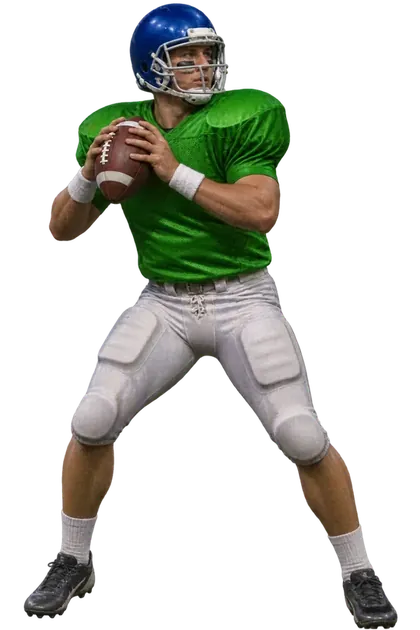
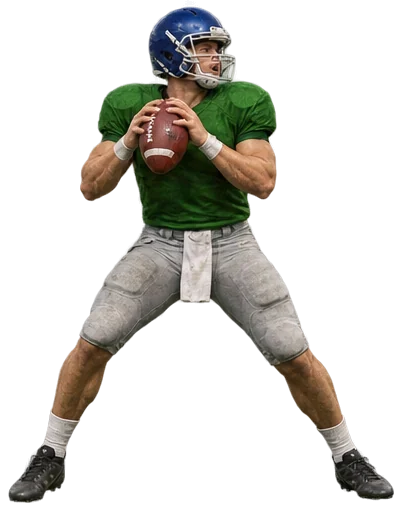
Replace retro athlete mattes with six original role-aware portraits and harden rendering

Changed region(s): [[0.0, 0.0, 0.9851, 1.0]]

diff --git a/src/app.js b/src/app.js
@@ -17,7 +17,7 @@ import {QUALIFICATION_RULES} from './cfpSelection.js';
 import {teamAccent} from './branding.js';
 import {teamKit,kitStyle,jerseyClash} from './teamKits.js';
 import {athleteModel,helmetBadge} from './playerArtwork.js';
-import {mountRetroPortraits} from './retroPortraits.js';
+import {mountRetroPortraits,awardPortraitRole} from './retroPortraits.js';
 import {tournamentReport,scoreboxFor} from './tournamentHonors.js';
 import {SHOWCASE,ceremonyTimeline} from './dynastyCeremony.js';
 import {freshSimulationSeed} from './runSeeds.js';
@@ -319,7 +319,7 @@ function awardsShowcase(awards,compact=false){
  if(!awards)return '';
  const rows=[['MVP',awards.mvp,'Tournament Most Valuable Player'],['OPOY',awards.opoy,'Offensive Player of the Year'],['DPOY',awards.dpoy,'Defensive Player of the Year'],['TITLE GAME MVP',awards.titleMvp,'National Championship standout']];
  return `<section class="awards-showcase ${compact?'awards-in-ceremony':''}" aria-label="Simulated tournament awards"><div class="awards-head"><span>THE DYNASTY HONORS</span><strong>2026 NATIONAL AWARDS</strong></div>
- <div class="awards-grid">${rows.map(([shortName,p,explain],i)=>`<article class="award-card" ${p?.team?`data-uniform-team="${esc(p.team)}" style="${kitStyle(p.team)}"`:''}><span class="award-kicker">${String(i+1).padStart(2,'0')} / ${shortName}</span><div class="award-visual-model" aria-hidden="true">${p?.team?athleteModel(p.team,{role:shortName==='DPOY'?'DEF':'QB',number:'26',instance:'award-'+i,face:'right'})+'<img class="retro-player-image" data-retro-player="'+(shortName==='OPOY'?'runner':'qb')+'" data-team="'+esc(p.team)+'" data-variant="home" src="./public/assets/'+(shortName==='OPOY'?'runner':'qb')+'-hero.webp" alt="" decoding="async">':'<span class="award-unassigned">UNASSIGNED</span>'}</div><h4>${esc(p?.name||'Unassigned')}</h4><b>${esc(p?.team?name(p.team):'Data unavailable')}</b><small>${esc(explain)}</small><span class="award-stat">${p?esc(p.role==='DEF'?'SIMULATED TEAM DEFENSE':p.interceptions!==undefined?`${p.interceptions} INT · ${p.fumbleRecoveries} FUMBLE REC`:`${Math.round(p.pass)} PASS / ${Math.round(p.rush)} RUSH / ${Math.round(p.receiving)} REC YDS`):'NO PARTICIPATION DATA'}</span></article>`).join('')}</div>
+ <div class="awards-grid">${rows.map(([shortName,p,explain],i)=>`<article class="award-card" ${p?.team?`data-uniform-team="${esc(p.team)}" style="${kitStyle(p.team)}"`:''}><span class="award-kicker">${String(i+1).padStart(2,'0')} / ${shortName}</span><div class="award-visual-model" aria-hidden="true">${p?.team?athleteModel(p.team,{role:shortName==='DPOY'?'DEF':p.role==='RB'?'RB':p.role==='QB'?'QB':'WR',number:'26',instance:'award-'+i,face:'right'})+'<img class="retro-player-image" data-retro-player="'+awardPortraitRole(shortName,p)+'" data-team="'+esc(p.team)+'" data-variant="home" src="./public/assets/'+awardPortraitRole(shortName,p)+'-hero.webp" alt="" decoding="async">':'<span class="award-unassigned">UNASSIGNED</span>'}</div><h4>${esc(p?.name||'Unassigned')}</h4><b>${esc(p?.team?name(p.team):'Data unavailable')}</b><small>${esc(explain)}</small><span class="award-stat">${p?esc(p.role==='DEF'?'SIMULATED TEAM DEFENSE':p.interceptions!==undefined?`${p.interceptions} INT · ${p.fumbleRecoveries} FUMBLE REC`:`${Math.round(p.pass)} PASS / ${Math.round(p.rush)} RUSH / ${Math.round(p.receiving)} REC YDS`):'NO PARTICIPATION DATA'}</span></article>`).join('')}</div>
  <p class="award-disclosure">FICTIONAL TOURNAMENT AWARDS — calculated only from simulated box scores, not observed season totals. Defensive credited takeaways are explicitly synthetic allocations to roster-listed candidates, not verified starts or individual plays. Replays can change every winner. Player figures are stylized team-color concepts, NOT verified athlete likenesses or game-day uniforms.</p></section>`;
 }
 
@@ -360,11 +360,11 @@ function showcaseOverlay(){
   <div class="showcase-vignette" aria-hidden="true"></div><div class="showcase-crowd" aria-hidden="true"></div>
   <div class="showcase-inner"><div class="showcase-scorestrip"><span>DYNASTY MODE // 2026</span><b>NATIONAL CHAMPIONSHIP</b><span>LIVE SIMULATION · FICTIONAL</span></div>
   <div class="showcase-crawl"><span>COLLEGE GRIDIRON CLASSIC</span><span>${esc(f.label)}</span><span>ALL ${f.size} ENTRANTS</span></div>
-  <div class="showcase-spotlight era-champion-stage" aria-hidden="true"><span class="showcase-light left"></span><span class="showcase-light right"></span><span class="showcase-trophy"><svg class="era-ceremony-trophy" viewBox="0 0 180 218" fill="none" role="img" aria-label="Original championship trophy illustration"><defs><linearGradient id="trophy-shine" x1="0" y1="0" x2="1" y2="1"><stop stop-color="#f6f4ec"/><stop offset=".24" stop-color="#88888c"/><stop offset=".58" stop-color="#d9d5cd"/><stop offset=".82" stop-color="#77777a"/><stop offset="1" stop-color="#ece9e0"/></linearGradient></defs><path d="M49 18H131L124 95Q116 126 90 140Q64 126 56 95L49 18Z" fill="url(#trophy-shine)" stroke="#f4f0e9" stroke-width="3"/><path d="M52 35H24V50Q24 86 60 93M128 35H156V50Q156 86 120 93" stroke="#d3d1cd" stroke-width="9" stroke-linejoin="round"/><path d="M88 140H92V169H88Z" fill="#c7c3bd"/><path d="M59 178H121L134 197H46Z" fill="url(#trophy-shine)" stroke="#e7e4df" stroke-width="2"/><path d="M39 197H141V211H39Z" fill="#44454b" stroke="#e5e3dc" stroke-width="3"/><path d="M75 36V106M90 36V110M105 36V106" stroke="#fff" stroke-width="1.3" opacity=".47"/><path d="M77 67l13-12 13 12-13 26Z" fill="#6d252e" stroke="#ece2dd" stroke-width="2"/></svg></span>${reveal&&t.champion?`<div class="era-champion-athlete" style="${kitStyle(t.champion)}">${athleteModel(t.champion,{role:'QB',instance:'champion-reveal',number:'26'})}<img class="retro-player-image" data-retro-player="qb" data-team="${esc(t.champion)}" data-variant="home" src="./public/assets/qb-hero.webp" alt="" decoding="async"/></div>`:''}</div>
+  <div class="showcase-spotlight era-champion-stage" aria-hidden="true"><span class="showcase-light left"></span><span class="showcase-light right"></span><span class="showcase-trophy"><svg class="era-ceremony-trophy" viewBox="0 0 180 218" fill="none" role="img" aria-label="Original championship trophy illustration"><defs><linearGradient id="trophy-shine" x1="0" y1="0" x2="1" y2="1"><stop stop-color="#f6f4ec"/><stop offset=".24" stop-color="#88888c"/><stop offset=".58" stop-color="#d9d5cd"/><stop offset=".82" stop-color="#77777a"/><stop offset="1" stop-color="#ece9e0"/></linearGradient></defs><path d="M49 18H131L124 95Q116 126 90 140Q64 126 56 95L49 18Z" fill="url(#trophy-shine)" stroke="#f4f0e9" stroke-width="3"/><path d="M52 35H24V50Q24 86 60 93M128 35H156V50Q156 86 120 93" stroke="#d3d1cd" stroke-width="9" stroke-linejoin="round"/><path d="M88 140H92V169H88Z" fill="#c7c3bd"/><path d="M59 178H121L134 197H46Z" fill="url(#trophy-shine)" stroke="#e7e4df" stroke-width="2"/><path d="M39 197H141V211H39Z" fill="#44454b" stroke="#e5e3dc" stroke-width="3"/><path d="M75 36V106M90 36V110M105 36V106" stroke="#fff" stroke-width="1.3" opacity=".47"/><path d="M77 67l13-12 13 12-13 26Z" fill="#6d252e" stroke="#ece2dd" stroke-width="2"/></svg></span>${reveal&&t.champion?`<div class="era-champion-athlete" style="${kitStyle(t.champion)}">${athleteModel(t.champion,{role:'QB',instance:'champion-reveal',number:'26'})}<img class="retro-player-image" data-retro-player="trophy" data-team="${esc(t.champion)}" data-variant="home" src="./public/assets/trophy-hero.webp" alt="" decoding="async"/></div>`:''}</div>
   <div class="showcase-copy"><span class="showcase-kicker">ROUND ${Math.min(t.rounds.length,f.size)} · ${f.size} TEAM ELIMINATION</span><h2>${esc(title)}</h2>
    <h3>${reveal?esc(name(t.champion)):'THE ROAD TO GLORY'}</h3><p>${esc(sub)}</p></div>
   ${reveal?`<div class="showcase-winner retro-champion-plate" style="${t.champion?kitStyle(t.champion):''}">
-  ${awarding&&t.champion?`<div class="retro-champion-portrait" data-uniform-team="${esc(t.champion)}"><img class="retro-player-image" data-retro-player="qb" data-team="${esc(t.champion)}" data-variant="home" src="./public/assets/qb-hero.webp" decoding="async" alt=""/></div>`:''}
+  ${awarding&&t.champion?`<div class="retro-champion-portrait" data-uniform-team="${esc(t.champion)}"><img class="retro-player-image" data-retro-player="celebrate" data-team="${esc(t.champion)}" data-variant="home" src="./public/assets/celebrate-hero.webp" decoding="async" alt=""/></div>`:''}
   <div class="retro-champion-copy"><span class="retro-champion-kicker">2026 · NATIONAL CHAMPION · SIMULATED</span><strong>${esc(name(t.champion))}</strong><b>THE ROAD TO THE NATIONAL TITLE</b>${finalGame?`<div class="era-title-final" aria-label="Actual generated championship score"><span>${esc(short(finalGame.config.a))}</span><strong>${integer(finalGame.final[0])} : ${integer(finalGame.final[1])}</strong><span>${esc(short(finalGame.config.b))}</span></div>`:''}</div></div>`:
    just?`<div class="showcase-live-score" aria-label="Latest completed game"><span>JUST PLAYED · ${esc(x.label)}</span><strong>${esc(short(just.config.a))} ${just.final[0]} <i>:</i> ${just.final[1]} ${esc(short(just.config.b))}</strong><small>${scoreboxFor(just).ok?'BOX SCORE CHECKED':'CHECK FAILED'}</small></div>`:
    `<div class="showcase-live-score"><span>STADIUM TRANSMISSION</span><strong>${f.size} PROGRAMS // ONE TROPHY</strong><small>KICKOFF SEQUENCE ACTIVE</small></div>`}

diff --git a/src/retroPortraits.js b/src/retroPortraits.js
@@ -5,8 +5,20 @@
 import {teamKit} from './teamKits.js';
 const URLS=Object.freeze({
  qb:['./public/assets/qb-hero.webp','./public/assets/qb-mask.webp'],
- runner:['./public/assets/runner-hero.webp','./public/assets/runner-mask.webp']
+ runner:['./public/assets/runner-hero.webp','./public/assets/runner-mask.webp'],
+ receiver:['./public/assets/receiver-hero.webp','./public/assets/receiver-mask.webp'],
+ defender:['./public/assets/defender-hero.webp','./public/assets/defender-mask.webp'],
+ celebrate:['./public/assets/celebrate-hero.webp','./public/assets/celebrate-mask.webp'],
+ trophy:['./public/assets/trophy-hero.webp','./public/assets/trophy-mask.webp']
 });
+/** Map award roles to the actual simulated position, never to award rank. */
+export function awardPortraitRole(award,player){
+ if(award==='DPOY')return 'defender';
+ if(player?.role==='QB')return 'qb';
+ if(player?.role==='RB')return 'runner';
+ if(['WR1','WR2','WR','TE'].includes(player?.role))return 'receiver';
+ return 'celebrate';
+}
 const sourceCache=new Map();
 const tintCache=new Map();
 const hexRgb=s=>[1,3,5].map(i=>parseInt(s.slice(i,i+2),16));
@@ -26,7 +38,7 @@ async function readSource(role){
   ctx.clearRect(0,0,canvas.width,canvas.height);ctx.drawImage(mask,0,0);
   const mattes=ctx.getImageData(0,0,canvas.width,canvas.height);
   return {raw,mattes,width:canvas.width,height:canvas.height};
- }));
+ }).catch(error=>{sourceCache.delete(role);throw error;}));
  return sourceCache.get(role);
 }
 function blendChannel(original,target,brightness,weight){
@@ -44,7 +56,9 @@ export function repairJerseyMask(r,g,b,mr,mg,mb){
 }
 /** Pure pixel transform is independently tested with deliberately tiny fixtures. */
 export function tintPixel(r,g,b,maskR,maskG,maskB,kit){
- const colors=[kit.jersey,kit.helmet,kit.pants].map(hexRgb);
+ return tintWithPalette(r,g,b,maskR,maskG,maskB,[kit.jersey,kit.helmet,kit.pants].map(hexRgb));
+}
+function tintWithPalette(r,g,b,maskR,maskG,maskB,colors){
  let v=[r,g,b];const brightness=r*.2126+g*.7152+b*.0722;
  for(const [i,m] of [maskR,maskG,maskB].entries()){
   const weight=Math.min(1,Math.max(0,m/255));if(weight<.005)continue;
@@ -60,14 +74,17 @@ async function makePortrait(team,role,variant){
   const canvas=document.createElement('canvas');canvas.width=width;canvas.height=height;
   const ctx=canvas.getContext('2d',{willReadFrequently:true});if(!ctx)throw Error('2D canvas unavailable');
   const out=ctx.createImageData(width,height),s=raw.data,m=mattes.data,d=out.data;
+  const palette=[selected.jersey,selected.helmet,selected.pants].map(hexRgb);
   for(let i=0;i<s.length;i+=4){
+   if(!s[i+3])continue;
    const redMask=repairJerseyMask(s[i],s[i+1],s[i+2],m[i],m[i+1],m[i+2]);
-   const v=tintPixel(s[i],s[i+1],s[i+2],redMask,m[i+1],m[i+2],selected);
+   const v=tintWithPalette(s[i],s[i+1],s[i+2],redMask,m[i+1],m[i+2],palette);
    d[i]=v[0];d[i+1]=v[1];d[i+2]=v[2];d[i+3]=s[i+3];
   }
   ctx.putImageData(out,0,0);
   return canvas.toDataURL('image/webp',.86);
  })();
+ promise.catch(()=>{if(tintCache.get(key)===promise)tintCache.delete(key);});
  tintCache.set(key,promise);
  if(tintCache.size>40)tintCache.delete(tintCache.keys().next().value);
  return promise;
@@ -81,10 +98,10 @@ export function mountRetroPortraits(root){
   const variant=element.dataset.variant||'home';
   if(!Object.hasOwn(URLS,role))continue;
   makePortrait(id,role,variant).then(data=>{
-   if(!element.isConnected||element.dataset.team!==id||element.dataset.variant!==variant)return;
+   if(!element.isConnected||element.dataset.team!==id||(element.dataset.variant||'home')!==variant||element.dataset.retroPlayer!==role)return;
    element.src=data;
    element.classList.add('retro-loaded');
-   element.closest('.era-athlete-panel,.award-card,.era-champion-athlete')?.classList.add('retro-rendered');
+   element.closest('.era-athlete-panel,.award-card,.era-champion-athlete,.retro-champion-portrait')?.classList.add('retro-rendered');
   }).catch(()=>{
    // The original SVG remains as a readable fallback rather than a broken image.
    if(element.isConnected)element.classList.add('retro-unavailable');

diff --git a/src/retroAuthentic.css b/src/retroAuthentic.css
@@ -299,3 +299,19 @@ body{background:#090b10!important;color:#f3f0ed!important}
 .era-reference-stats tbody tr{background:#242528}
 .era-reference-stats tbody tr:nth-child(even){background:#1a1b1e}
 @media(min-width:1040px){.era-game-board .retro-stadium-hero .era-reference-stats{grid-column:1;grid-row:auto}}
+
+/* Six independently drawn role assets. Art stays clear of the score and actual awards. */
+.era-athlete-panel .retro-player-image.retro-loaded{filter:drop-shadow(3px 5px 4px #000b) contrast(1.04) saturate(.94)!important}
+.awards-showcase .award-visual-model .retro-player-image,
+.dynasty-showcase.stage-awards .award-visual-model .retro-player-image,
+.dynasty-showcase.stage-finish .award-visual-model .retro-player-image{
+ left:0!important;right:auto!important;top:0!important;bottom:auto!important;height:100%!important;width:100%!important;object-fit:contain!important;object-position:center top!important;
+}
+.awards-showcase .award-visual-model:has(.retro-unavailable) .uniform-athlete-svg,
+.dynasty-showcase .era-champion-athlete:has(.retro-unavailable) .uniform-athlete-svg{opacity:1!important;display:block!important}
+.awards-showcase .award-visual-model .retro-unavailable,.retro-champion-portrait .retro-unavailable{display:none!important}
+.dynasty-showcase .era-champion-stage:has(.era-champion-athlete.retro-rendered) .showcase-trophy{display:none!important}
+.dynasty-showcase .era-champion-stage:has(.era-champion-athlete.retro-rendered) .era-champion-athlete{width:min(75%,330px)!important;max-width:100%!important;flex-shrink:0}
+.dynasty-showcase .era-champion-athlete .retro-player-image.retro-loaded{height:100%!important;bottom:0!important;width:100%!important;object-fit:contain!important;object-position:center top!important}
+.retro-champion-portrait .retro-player-image{height:100%!important;bottom:0!important;width:100%!important;object-fit:contain!important;object-position:center top!important}
+@media(max-width:720px){.dynasty-showcase .era-champion-stage:has(.era-champion-athlete.retro-rendered) .era-champion-athlete{width:min(70%,160px)!important}}

diff --git a/tests/retro_portrait.test.js b/tests/retro_portrait.test.js
@@ -1,12 +1,12 @@
 import test from 'node:test';
 import assert from 'node:assert/strict';
 import {readFileSync,statSync} from 'node:fs';
-import {tintPixel,repairJerseyMask} from '../src/retroPortraits.js';
+import {tintPixel,repairJerseyMask,awardPortraitRole} from '../src/retroPortraits.js';
 import {teamKit} from '../src/teamKits.js';
 const root=new URL('../',import.meta.url);
 const read=p=>readFileSync(new URL(p,root),'utf8');
 test('real rendered portrait sources and masks ship locally with bounded sizes',()=>{
- for(const name of ['qb-hero.webp','runner-hero.webp','qb-mask.webp','runner-mask.webp','retro-night-stadium.webp']){
+ for(const name of ['qb-hero.webp','runner-hero.webp','qb-mask.webp','runner-mask.webp','receiver-hero.webp','receiver-mask.webp','defender-hero.webp','defender-mask.webp','celebrate-hero.webp','celebrate-mask.webp','trophy-hero.webp','trophy-mask.webp','retro-night-stadium.webp']){
   const path='public/assets/'+name;
   const b=readFileSync(new URL(path,root));
   assert.equal(b.toString('utf8',0,4),'RIFF',name+' should be WebP RIFF data');
@@ -52,4 +52,12 @@ test('photo stadium and visible full portrait heads rather than clipped award sh
  assert.ok(css.includes('retro-night-stadium.webp'));
  assert.ok(css.includes('left:-35%!important'));
  assert.ok(css.includes('jersey matte repair')===false); // correction lives in JS, not CSS filtering
+});
+
+test('award art maps real role to distinct visual position and celebration',()=>{
+ assert.equal(awardPortraitRole('MVP',{role:'QB'}),'qb');
+ assert.equal(awardPortraitRole('OPOY',{role:'WR2'}),'receiver');
+ assert.equal(awardPortraitRole('TITLE GAME MVP',{role:'RB'}),'runner');
+ assert.equal(awardPortraitRole('DPOY',{role:'CB'}),'defender');
+ assert.equal(awardPortraitRole('MVP',null),'celebrate');
 });
